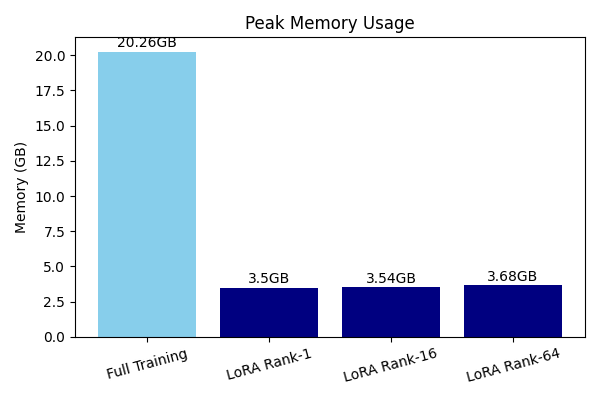
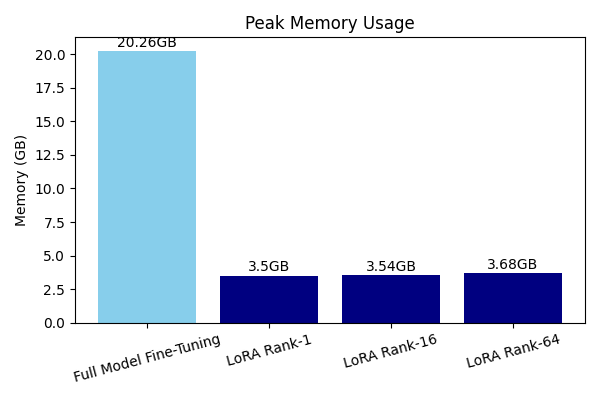
feat: update plot

diff --git a/plot/plot.py b/plot/plot.py
@@ -1,7 +1,7 @@
 import matplotlib.pyplot as plt
 
 # Data
-methods = ['Full Training', 'LoRA Rank-1', 'LoRA Rank-16', 'LoRA Rank-64']
+methods = ['Full Model Fine-Tuning', 'LoRA Rank-1', 'LoRA Rank-16', 'LoRA Rank-64']
 runtime = [2.56, 1.35, 1.89, 1.38]  # in seconds
 memory = [20.26, 3.50, 3.54, 3.68]  # in GB
 
